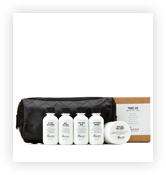
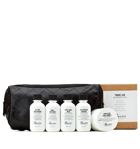
ended catalog item pages

Changed region(s): [[0.0, 0.5369, 1.0, 0.8859]]

diff --git a/catalog-item.html b/catalog-item.html
@@ -38,38 +38,40 @@
       
       <div class="catalog-columns">
         <section class="product-photos">
-        <h2 class="vis-hidden">Изображения товара</h2>
-        <p class="product-photo-full">
-          <img src="img/article/item1/Layer 47 copy.jpg" width="460" height="498" alt="Фото всего набора">
-        </p>
-        <ul class="product-photo-preview">
-          <li><img src="img/article/item1/Layer 47.jpg" width="140" height="149" alt="Фото в анфас"></li>
-          <li><img src="img/article/item1/Layer 45.jpg" width="140" height="149" alt="Фото в профиль"></li>
-          <li><img src="img/article/item1/Layer 46.jpg" width="140" height="149" alt="Фото отдельной части"></li>
-        </ul>
+          <h2 class="visually-hidden">Изображения товара</h2>
+          <p class="product-photo-full">
+            <img src="img/article/item1/Layer 47.jpg" width="460" height="498" alt="Фото всего набора">
+          </p>
+          <ul class="product-photo-preview">
+            <li><img src="img/article/item1/Layer 477.jpg" width="140" height="149" alt="Фото в анфас"></li>
+            <li><img src="img/article/item1/Layer 45.jpg" width="140" height="149" alt="Фото в профиль"></li>
+            <li><img src="img/article/item1/Layer 46.jpg" width="140" height="149" alt="Фото отдельной части"></li>
+          </ul>
         </section>
         <section class="product-info">
-        <h2 class="vis-hidden">Описание товара</h2>
-        <p class="product-availability">Есть в наличии</p>
-        <p class="product-article">Артикул: DEXTER-AE</p>
-        <p class="product-text">Travel Kit – необходимый аксессуар во время любого 
-          путешествия. В аккуратной кожаной сумке находится все, что 
-          нужно для бритья и ухода за кожей во время рабочей поездки 
-          или отдыха: средство для умывания, увлажняющий крем, 
-          крем для бритья, крем после бритья, шампунь. Набор также может 
-          стать отличным подарком.</p>
-        <p class="product-price">
-          <b>2 900 Р</b>
-          <a href="#" class="btn">Купить</a>
-        </p>
-        <h3>В набор входит:</h3>
-        <ul>
-          <li>Средство для умывания (50 мл)</li>
-          <li>Увлажняющий крем (50 мл)</li>
-          <li>Крем для бритья (50 мл)</li>
-          <li>Крем после бритья, шампунь (50 мл)</li>
-          <li>Удобная кожаная косметичка</li>
-        </ul>
+          <h2 class="visually-hidden">Описание товара</h2>
+          <div class="product-info-wrapper">
+            <p class="product-availability">Есть в наличии</p>
+            <p class="product-article">Артикул: DEXTER-AE</p>
+          </div>
+          <p class="product-text">Travel Kit – необходимый аксессуар во время любого 
+            путешествия. В аккуратной кожаной сумке находится все, что 
+            нужно для бритья и ухода за кожей во время рабочей поездки 
+            или отдыха: средство для умывания, увлажняющий крем, 
+            крем для бритья, крем после бритья, шампунь. Набор также может 
+            стать отличным подарком.</p>
+          <p class="catalog-item-price product-price">
+            <b>2 900 Р</b>
+            <a href="#" class="btn">Купить</a>
+          </p>
+          <h3>В набор входит:</h3>
+          <ul>
+            <li>Средство для умывания (50 мл)</li>
+            <li>Увлажняющий крем (50 мл)</li>
+            <li>Крем для бритья (50 мл)</li>
+            <li>Крем после бритья, шампунь (50 мл)</li>
+            <li>Удобная кожаная косметичка</li>
+          </ul>
         </section>
       </div>
     </main>

diff --git a/css/style.css b/css/style.css
@@ -291,10 +291,7 @@ input[type="radio"].visually-hidden {
 }
 
 /*     /////     .Inner-page    /////     */
-.catalog-columns {
-	display: flex;
-	justify-content: space-between;
-}
+
 
 /*     /////     .Inner-page.Filter     /////     */
 .filters {
@@ -670,25 +667,69 @@ input[type="radio"].visually-hidden {
 	line-height: 18px;
 }
 
-
+/*     /////     .Catalog-item     /////     */
+.catalog-columns {
+	display: flex;
+	justify-content: space-between;
+}
 .product-photos {
+	display: flex;
+	flex-wrap: wrap;
 	width: 460px;
 }
-.product-info {
-	width: 390px;
-}
 .product-photo-preview {
+	display: flex;
+	justify-content: space-between;
+	flex-grow: 1;
+	padding: 0;
+	margin: 0;
+	margin-top: 20px;
 	list-style: none;
 }
 .product-photo-preview  li {
+	width: 140px;
+	height: 149px;
 	box-shadow: 0 0 15px 2px rgba(0, 0, 0, 0.1);
 }
 .product-photo-full {
+	padding: 0;
+	margin: 0;
+	width: 460px;
+	height: 500px;
 	box-shadow: 0 0 15px 2px rgba(0, 0, 0, 0.1);
 }
+.product-photo-preview li:hover {
+	cursor: pointer;
+	box-shadow: 0 0 15px rgba(0,0,0,0.3);
+}
+
+
+.product-info {
+	width: 390px;
+}
+.product-info .product-info-wrapper {
+	display: flex;
+	justify-content: space-between;
+}
+.product-info-wrapper p {
+	margin: 0;
+	padding: 0;
+}
+.product-info .product-text {
+	margin: 0;
+	margin-top: 35px;
+	margin-bottom: 35px;
+}
 .product-article {
-text-align: right;
-color: #aeaeae;
+	color: #aeaeae;
+}
+.product-price {
+	width: 188px;
+	padding: 0;
+	margin: 0;
+}
+.product-price .btn {
+	line-height: 24px;
 }
 .product-price b {
 	font-size: 14px;
@@ -697,11 +738,28 @@ color: #aeaeae;
 	background-color: #e5e5e5;
 }
 .product-info h3 {
+	margin-top: 65px;
 	font-size: 24px;
 	line-height: 30px;
 }
 .product-info ul {
+	padding: 0;
+	padding-left: 20px;
+	margin: 0;
 	list-style: none;
+}
+.product-info li{
+	position: relative;
+}
+.product-info li::before {
+	content: "";
+	position: absolute;
+	top: 7px;
+	left: -18px;
+	width: 8px;
+	height: 8px;
+	background-color: #000;
+	transform: rotate(45deg);
 }
 
 /*     /////     .Pagination     /////     */
